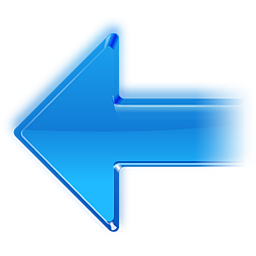
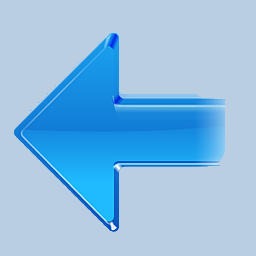
Modified all image backgrounds and aligned it with the HTML background

diff --git a/ApplicantSurveyApp/ApplicantSurveyApp/ApplicantSurveyApp.Web/SurveyPage.aspx.cs b/ApplicantSurveyApp/ApplicantSurveyApp/ApplicantSurveyApp.Web/SurveyPage.aspx.cs
@@ -175,6 +175,7 @@ namespace ApplicantSurveyApp.Web
 			foreach (Rate rate in rates) {
 				imageButton = new ImageButton();
 				imageButton.ImageUrl = rate.imageLocation;
+				imageButton.CssClass = "imgButtonImg";
 				imageButton.ID = rate.rateID.ToString();
 				imageButton.AlternateText = rate.rateDescription.ToString();
 				imageButton.Width = width;
